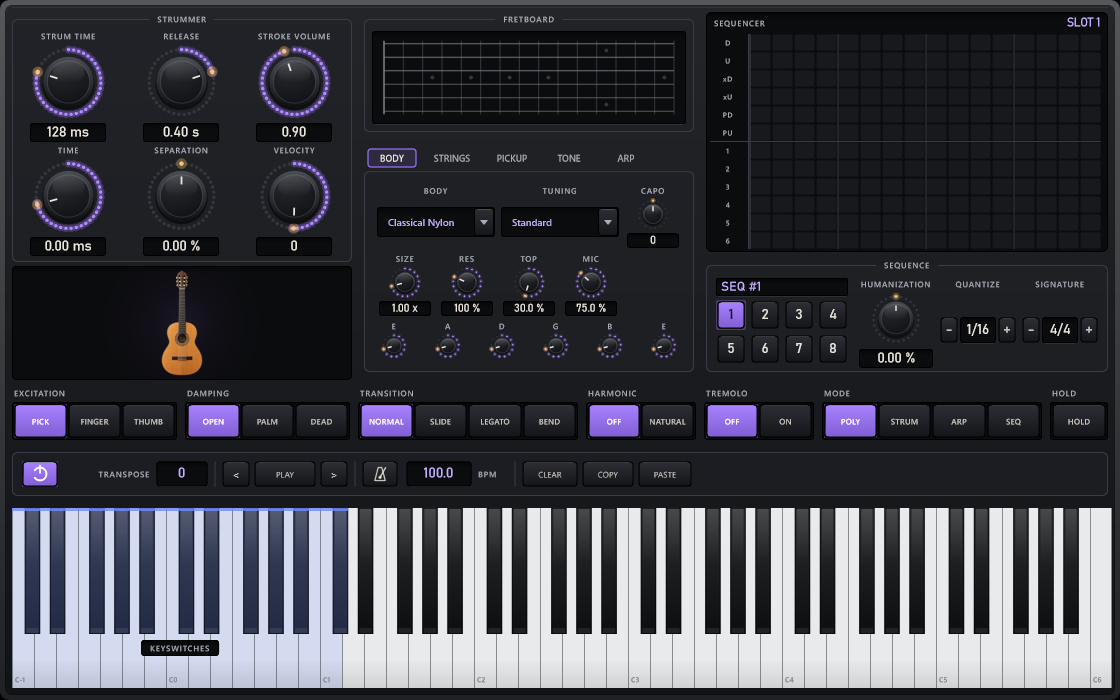
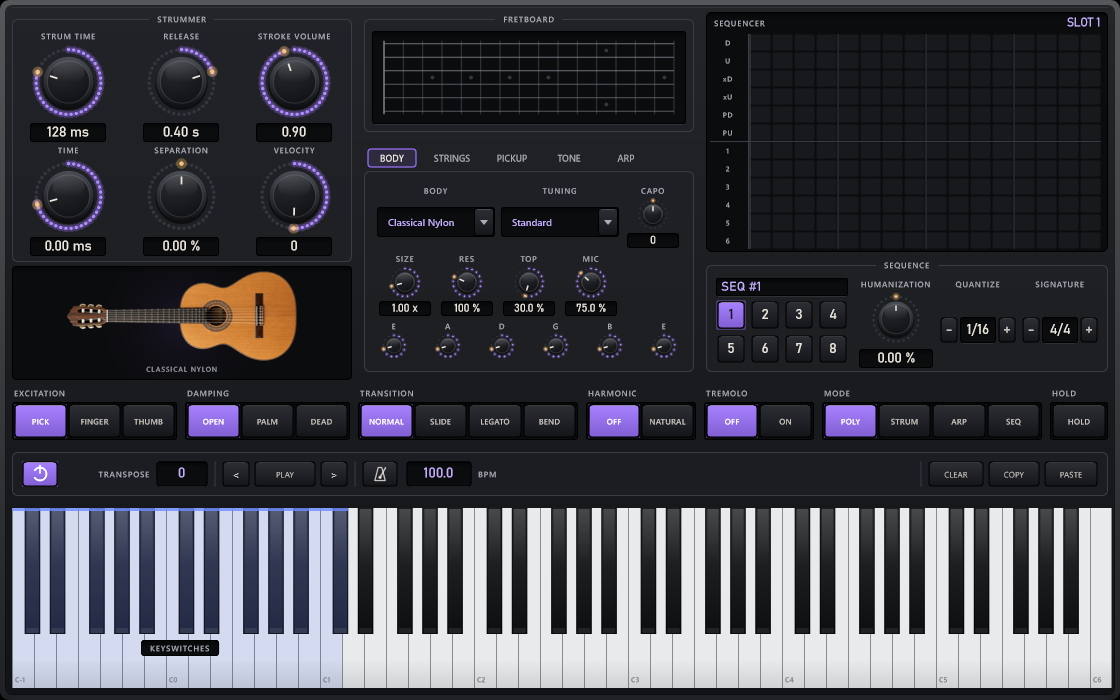
Strum, body sustain and editor polish
Strum: humanize no longer reverses the sweep. Each string jittered by up to
8 ms on its own, so with a fast strum a later string could sound before an
earlier one. A stroke now shifts as a whole by the humanize offset, and each
string adds jitter capped at 35% of its gap to the next, never crossing it.
New test fails on the old engine and passes now.

Body: a solid electric sustained only 15% longer than a dreadnought and the
semi-hollow less than the dreadnought. Solid is now 1.5x, semi 1.2x. Low E
-40 dB time: solid 2.64 -> 3.38 s, semi 2.24 -> 2.76 s, dreadnought
unchanged. New test pins solid > semi > dreadnought late in a held note.

Editor: CLEAR/COPY/PASTE move to the right edge of the transport bar,
filling the space the STRUM buttons left. The body name caption under the
guitar never drew (its rect had negative height); it now shows below the art.

Suite 2043 checks, 0 failures; HostCheck 0 failures.

diff --git a/Tests/FunctionalTests.cpp b/Tests/FunctionalTests.cpp
@@ -652,6 +652,61 @@ juce::MouseEvent mouseEventAt (juce::Component& c, juce::Point<float> position, 
              &c, &c, now, position, now, 1, false };
 }
 
+FW_TEST ("body: a solid electric sustains longer than a dreadnought")
+{
+    // Level two seconds into a held low E, relative to its own early level.
+    const auto ringRatio = [] (float body)
+    {
+        fwtest::Plugin p;
+        p.set ("body", body);
+        p.noteOn (0.01, 40, 0.8f);
+        const auto t = p.render (2.6);
+        return t.rms (2.2, 2.5) / t.rms (0.1, 0.4);
+    };
+    const double dread = ringRatio (0.f), solid = ringRatio (2.f), semi = ringRatio (3.f);
+    EXPECT_MSG (solid > dread * 1.25, "the solid body is still clearly louder late in the note");
+    EXPECT_MSG (semi > dread && semi < solid, "the semi-hollow sustains between the two");
+}
+
+FW_TEST ("strum: humanized strokes keep their sweep order")
+{
+    fw::StrumEngine engine;
+    engine.prepare (48000.0);
+
+    fw::Voicing v;
+    v.count = 6;
+    for (int i = 0; i < 6; ++i) { v.stringIndex[i] = i; v.fret[i] = 0; v.pitch[i] = 40.f + 5.f * (float) i; }
+
+    // A fast strum with full humanize is where per-string jitter used to swap
+    // neighbours: 8 ms of jitter against about 2 ms between strings.
+    fw::StrumEngine::StrokeParams p;
+    p.strumTimeMs = 10.f;
+    p.humanize01  = 1.f;
+
+    fw::Rng rng;
+    fw::StrumHit hits[6];
+    int reversed = 0, spreadOk = 0;
+    constexpr int strokes = 400;
+    for (int i = 0; i < strokes; ++i)
+    {
+        const bool up = (i & 1) != 0;
+        const int n = engine.stroke (up, fw::StrokeKind::Normal, 100, p, v, nullptr, {}, rng, hits, 6);
+        for (int k = 1; k < n; ++k)
+            if (hits[k].delaySamples < hits[k - 1].delaySamples)
+                ++reversed;
+        // order: down strokes run low string to high, up strokes high to low
+        bool ordered = true;
+        for (int k = 1; k < n; ++k)
+            ordered = ordered && (up ? hits[k].stringIndex < hits[k - 1].stringIndex
+                                     : hits[k].stringIndex > hits[k - 1].stringIndex);
+        // the humanized stroke stays within the sweep plus the 8 ms shift each side
+        const double span = (hits[n - 1].delaySamples - hits[0].delaySamples) / 48.0;
+        if (ordered && span <= 10.0 + 16.0) ++spreadOk;
+    }
+    EXPECT_MSG (reversed == 0, "no string ever sounds before the string swept ahead of it");
+    EXPECT_MSG (spreadOk == strokes, "every stroke sweeps in string order within its time bound");
+}
+
 FW_TEST ("midi: notes from the host light the on-screen piano")
 {
     fwtest::Plugin p;

diff --git a/Source/engine/StrumEngine.cpp b/Source/engine/StrumEngine.cpp
@@ -88,6 +88,15 @@ int StrumEngine::stroke (bool up,
     const int limit = n < cap ? n : cap;
     int written = 0;
 
+    // Humanized timing, the way a hand is late or early: the whole stroke
+    // shifts by one shared offset, and each string adds a small jitter capped
+    // at a fraction of its gap to the next string. Independent per-string
+    // jitter could land a later string before an earlier one, reversing the
+    // sweep, which no strum does.
+    const double strokeShiftMs = (double) rng.range (-8.f * h, 8.f * h);
+    constexpr double kJitterOfGap = 0.35;
+    double prevMs = -1.0e9;
+
     for (int k = 0; k < limit; ++k)
     {
         // Order index k runs in sweep order: ascending strings for a down
@@ -97,10 +106,15 @@ int StrumEngine::stroke (bool up,
         const int fret = v.fret[vi];
 
         const float x = (n == 1) ? 0.f : (float) k / (float) (n - 1);
+        const float xNext = (n == 1) ? 0.f : (float) (k + 1) / (float) (n - 1);
+        const double sweepMs = (double) stepTimeMs (p.strumTimeMs, p.separation01, x);
+        const double gapMs   = k + 1 < n ? (double) stepTimeMs (p.strumTimeMs, p.separation01, xNext) - sweepMs : 0.0;
+        const double jitter  = std::fmin (8.0 * (double) h, kJitterOfGap * gapMs);
 
-        const double tMs = (double) stepTimeMs (p.strumTimeMs, p.separation01, x)
-                         + (double) p.timeOffsetMs
-                         + (double) rng.range (-8.f * h, 8.f * h);
+        double tMs = sweepMs + (double) p.timeOffsetMs + strokeShiftMs
+                   + (double) rng.range ((float) -jitter, (float) jitter);
+        if (tMs < prevMs) tMs = prevMs;     // never reverse the sweep
+        prevMs = tMs;
 
         const float gain = up ? upGain (s) : downGain (s);
         const float vel  = bnorm * p.strokeVol * gain

diff --git a/Source/ui/GuitarBodyView.cpp b/Source/ui/GuitarBodyView.cpp
@@ -52,13 +52,15 @@ void GuitarBodyView::paint (juce::Graphics& g)
                                                 GuitarArt::Body::ClassicalNylon,    // Classical Nylon
                                                 GuitarArt::Body::SolidElectric,     // Solid Electric
                                                 GuitarArt::Body::SemiHollow };      // Semi-Hollow
-    GuitarArt::paint (g, area.reduced (8.0f, 4.0f), bodies[index]);
+    // Name caption along the bottom of the well, as a display label; the art
+    // fills the rest so the two never overlap.
+    auto inner = area.reduced (8.0f, 4.0f);
+    const auto captionArea = inner.removeFromBottom (14.0f);
+    GuitarArt::paint (g, inner, bodies[index]);
 
-    // Name caption along the bottom of the well, as a display label.
     g.setColour (Palette::caption.withAlpha (0.9f));
     g.setFont (Palette::fontSemi (9.0f).withExtraKerningFactor (0.1f));
-    g.drawText (choice->choices[index].toUpperCase(), area.reduced (8.0f, area.getHeight() - 14.0f),
-                juce::Justification::centred, true);
+    g.drawText (choice->choices[index].toUpperCase(), captionArea, juce::Justification::centred, true);
 }
 
 } // namespace fw::ui

diff --git a/Source/dsp/ModelTables.h b/Source/dsp/ModelTables.h
@@ -65,8 +65,11 @@ inline constexpr BodyTable kBodyTables[4] =
     { kSemiHollowModes,    4,  -8.0f }    // Semi-Hollow
 };
 
-// Loop-loss multiplier applied to every string for the selected body.
-inline constexpr float kBodyLossScale[4] = { 1.0f, 0.9f, 1.15f, 0.95f };
+// Sustain multiplier applied to every string for the selected body
+// (Dreadnought, Classical, Solid Electric, Semi-Hollow). A resonant acoustic
+// top drains the string fastest; a solid body barely couples, so its notes ring
+// clearly longer, and a semi-hollow's centre block puts it between the two.
+inline constexpr float kBodyLossScale[4] = { 1.0f, 0.9f, 1.5f, 1.2f };
 
 // Highest fret reachable for each body.
 inline constexpr int kBodyMaxFret[4] = { 20, 19, 22, 21 };

diff --git a/Source/ui/TransportBar.cpp b/Source/ui/TransportBar.cpp
@@ -395,12 +395,15 @@ void TransportBar::resized()
     place (bpmField, 66, 6);
     bpmCaption = { (float) x, (float) y, 30.0f, (float) h };
     x += 30 + clusterGap;
-    divider (dividers[2]);
 
-    // CLEAR COPY PASTE
+    // CLEAR COPY PASTE edit the sequencer pattern, not the transport, so they
+    // sit at the right edge with their divider, balancing the bar.
+    constexpr int editW = 56 + gap + 52 + gap + 54;
+    x = juce::jmax (x, getWidth() - 10 - editW);
+    divider (dividers[2]);
     place (clearButton, 56, gap);
     place (copyButton, 52, gap);
-    place (pasteButton, 54, gap);
+    place (pasteButton, 54, 0);
 }
 
 } // namespace fw::ui
